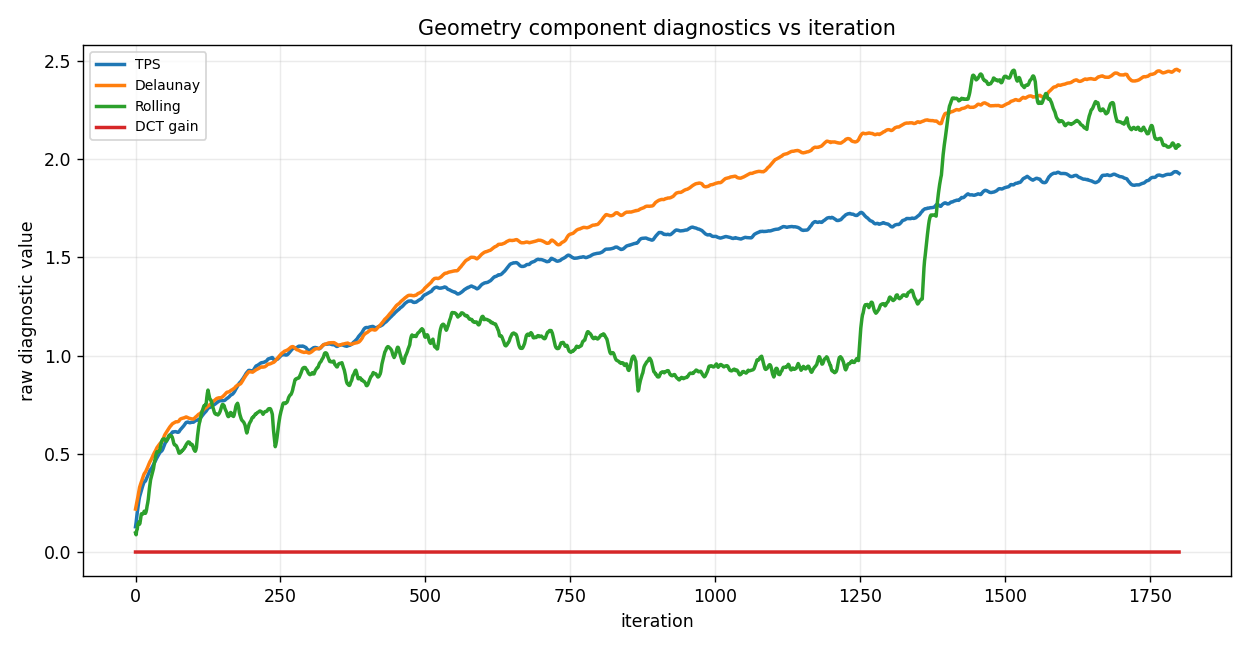
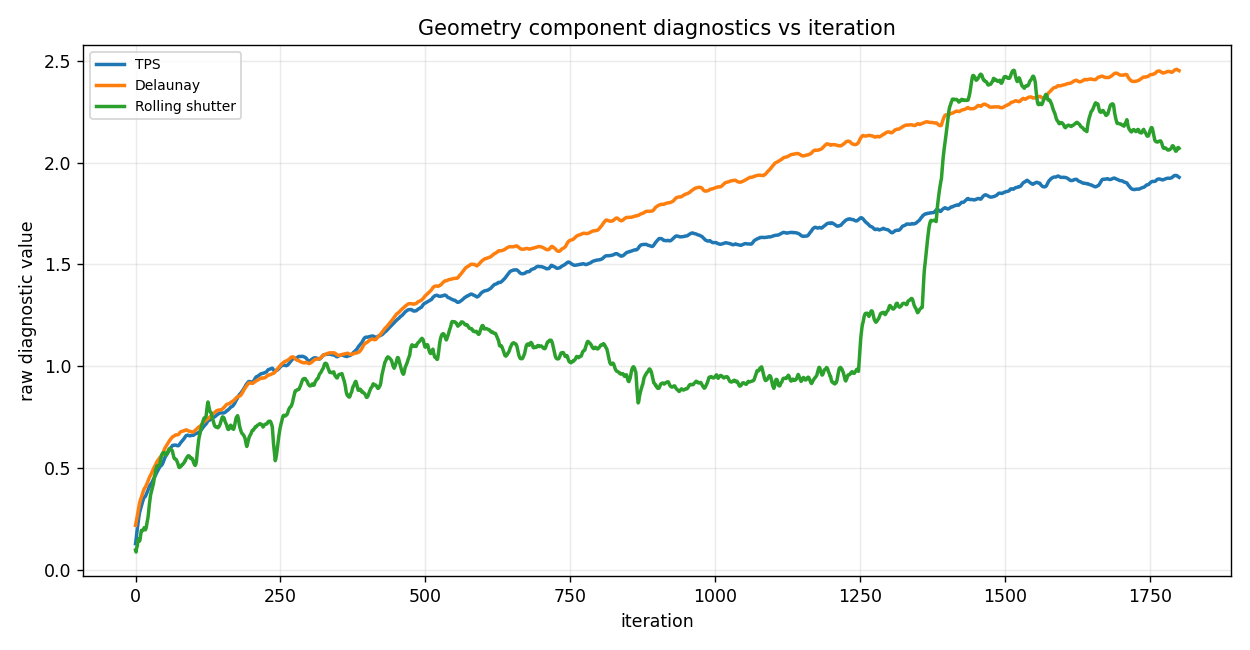
Update FACE4 geometry diagnostics reports

diff --git a/face4/scripts/summarize_runs.py b/face4/scripts/summarize_runs.py
@@ -282,12 +282,34 @@ def _mean_series_by_iter(runs: list[dict[str, Any]], key: str) -> tuple[list[flo
     return xs, ys
 
 
-def plot_mean_geometry_lines(path: Path, title: str, ylabel: str, runs: list[dict[str, Any]], keys: list[tuple[str, str]]) -> None:
+def component_enabled(run: dict[str, Any], component: str) -> bool:
+    """Return whether a geometry component was enabled for this saved run.
+
+    Prefer the immutable resolved configuration saved with the run.  Older
+    result folders may not contain it, so fall back to the per-iteration
+    ``*_enabled`` diagnostic already written to history.csv.
+    """
+    resolved = run.get("config", {}).get("geometry_config_resolved", {})
+    config_value = resolved.get(f"{component}_enabled")
+    if config_value is not None:
+        return bool(config_value)
+    history_key = f"{component}_enabled"
+    return any((to_float(row.get(history_key)) or 0.0) > 0.5 for row in run.get("history_rows", []))
+
+
+def plot_mean_geometry_lines(
+    path: Path,
+    title: str,
+    ylabel: str,
+    runs: list[dict[str, Any]],
+    keys: list[tuple[str, str, str]],
+) -> None:
     path.parent.mkdir(parents=True, exist_ok=True)
     plt.figure(figsize=(10, 5.2), dpi=125)
     plotted = False
-    for key, label in keys:
-        xs, ys = _mean_series_by_iter(runs, key)
+    for key, label, component in keys:
+        enabled_runs = [run for run in runs if component_enabled(run, component)]
+        xs, ys = _mean_series_by_iter(enabled_runs, key)
         if xs:
             plotted = True
             plt.plot(xs, ys, linewidth=2.0, label=label)
@@ -374,10 +396,23 @@ def make_graphs(runs: list[dict[str, Any]], output_root: Path) -> list[dict[str,
         "raw diagnostic value",
         runs,
         [
-            ("tps_mean_disp", "TPS"),
-            ("delaunay_mean_disp", "Delaunay"),
-            ("rolling_mean_disp", "Rolling"),
-            ("dct_gain_mean_abs", "DCT gain"),
+            ("tps_mean_disp", "TPS", "tps"),
+            ("delaunay_mean_disp", "Delaunay", "delaunay"),
+            ("rolling_mean_disp", "Rolling shutter", "rolling"),
+            ("dct_gain_mean_abs", "DCT gain", "dct"),
+            ("fft_phase_mean_abs", "FFT phase", "fft_phase"),
+            ("polar_mean_disp", "Polar", "polar"),
+            ("bspline_mean_disp", "B-spline / Bezier", "bspline"),
+            ("lens_barrel_mean_disp", "Lens barrel", "lens_barrel"),
+            ("lens_pincushion_mean_disp", "Lens pincushion", "lens_pincushion"),
+            ("mobius_mean_disp", "Mobius", "mobius"),
+            ("laplacian_mean_disp", "Laplacian", "laplacian"),
+            ("geodesic_mean_disp", "Geodesic", "geodesic"),
+            (
+                "differential_surface_mean_disp",
+                "Differential surface",
+                "differential_surface",
+            ),
         ],
     )
     graphs.append({"title": "Geometry component diagnostics vs iteration", "path": component_path.relative_to(output_root).as_posix()})